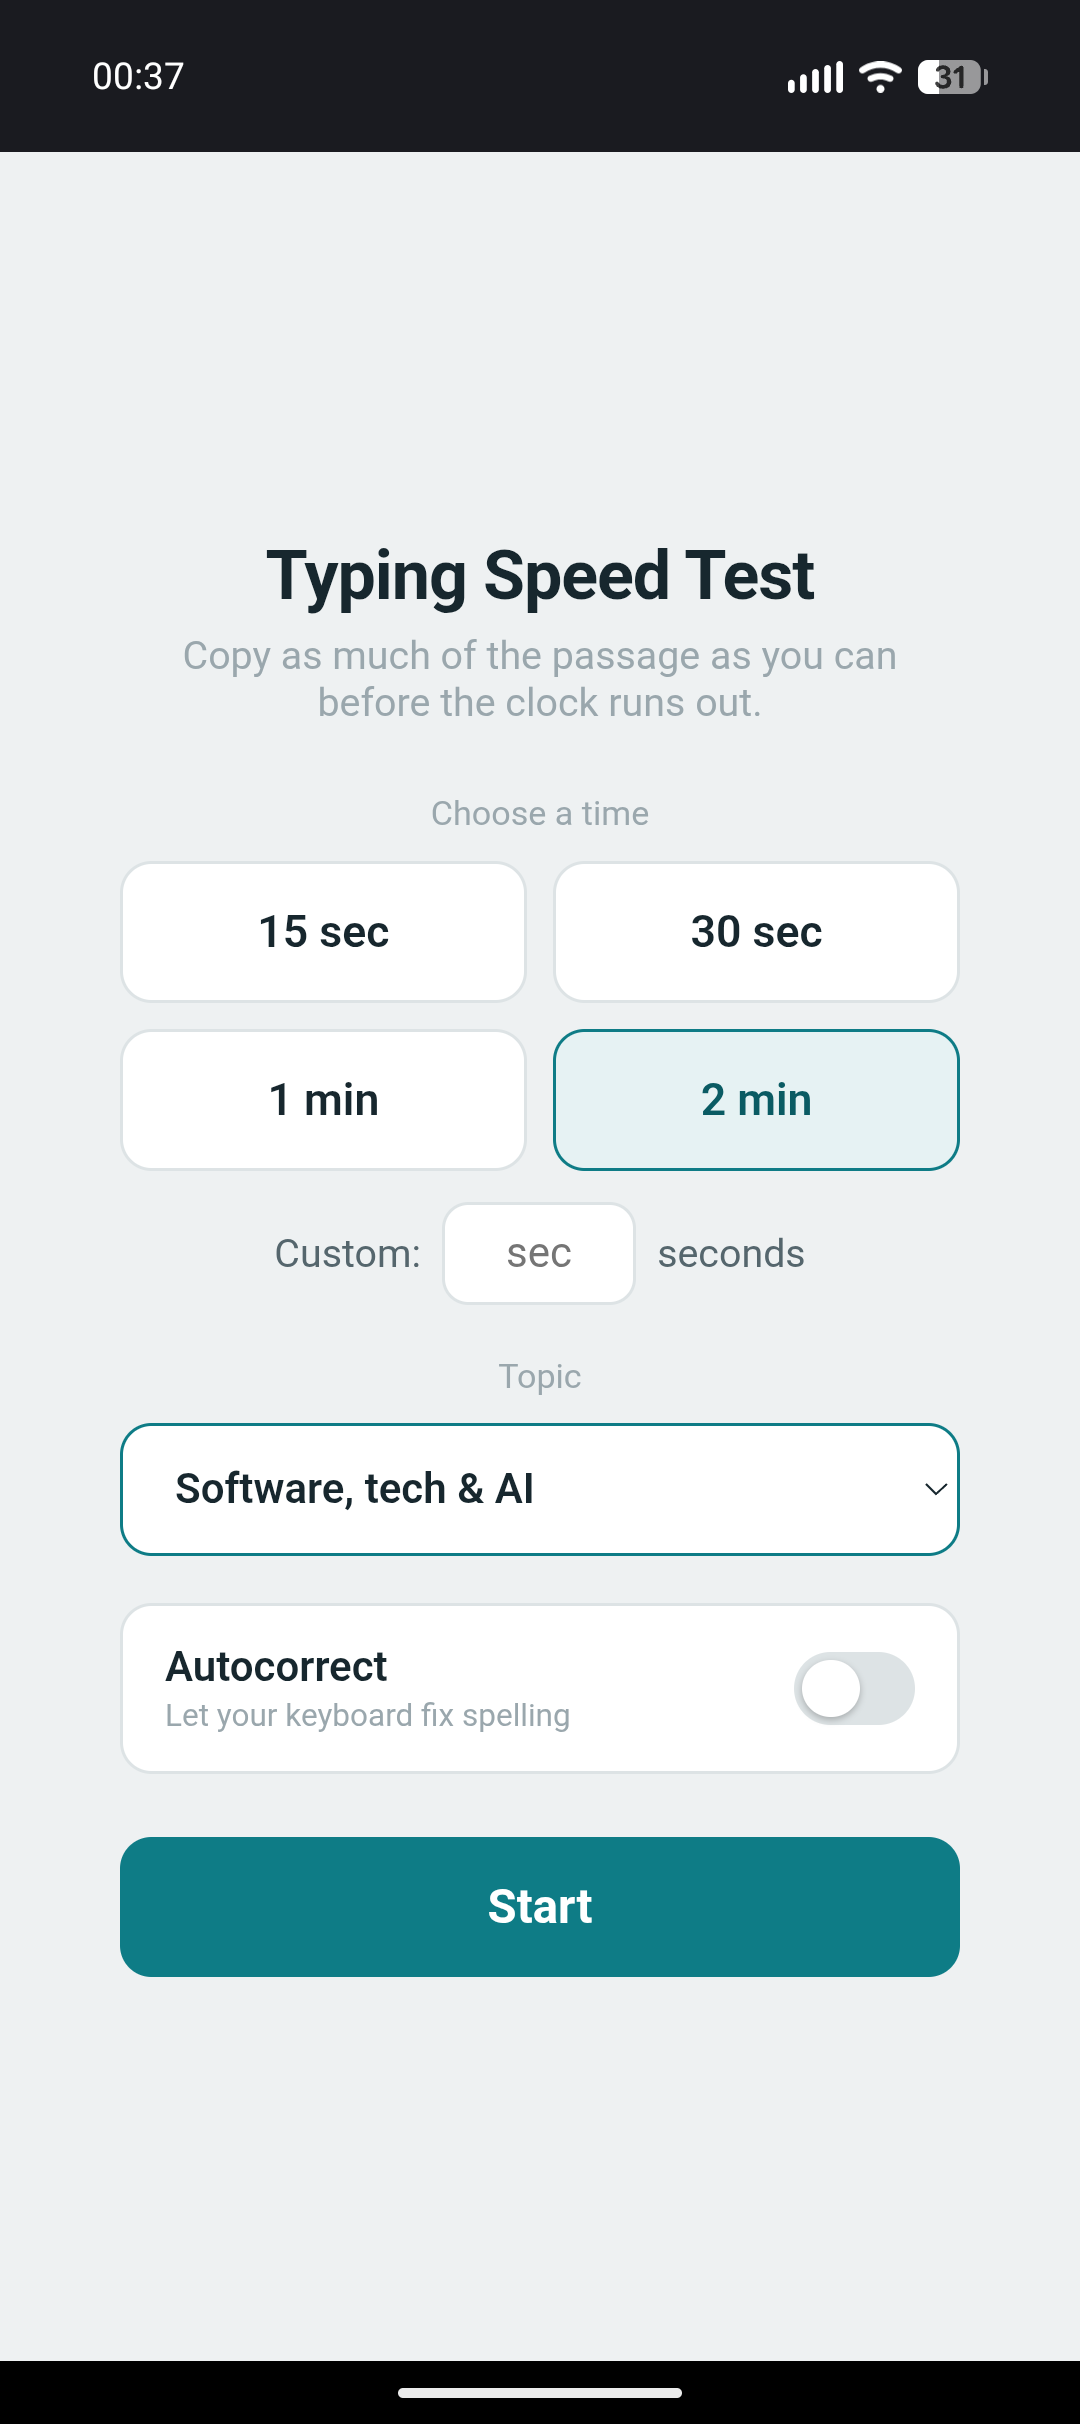
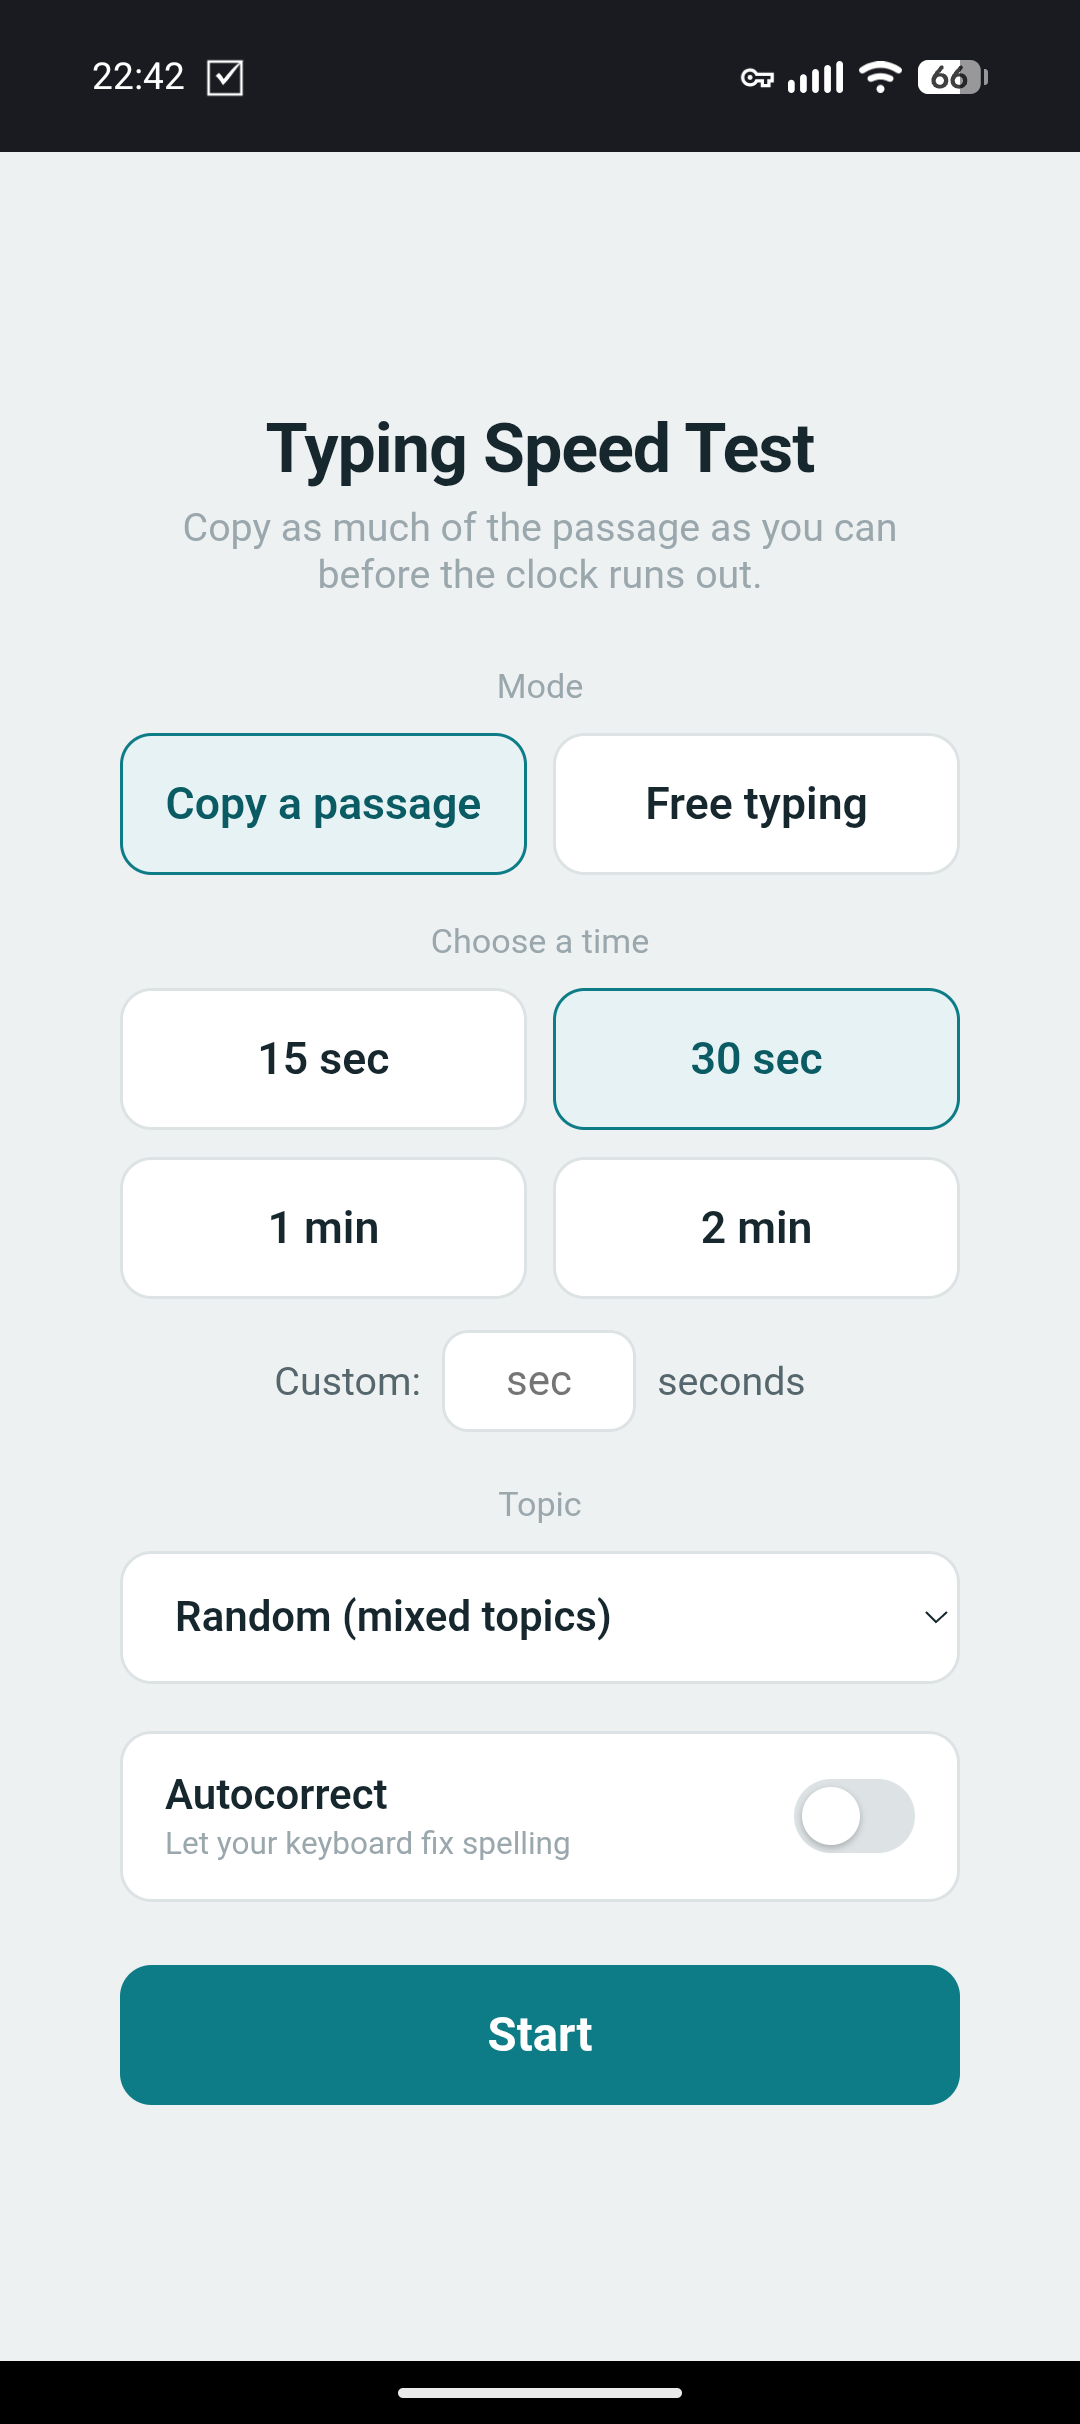
docs: refresh screenshots (with mode selector) and note free typing in README
Replace the setup/typing/results screenshots with newer captures -- the setup
shot now shows the Copy a passage / Free typing mode selector -- and mention
mode selection in the screenshot alt text and caption.

Claude-Session: https://claude.ai/code/session_01BXYBQtRh7YTX3yXHfwHnhG

diff --git a/README.md b/README.md
@@ -13,7 +13,7 @@ topics**.
 ## Screenshots
 
 <p align="center">
-  <img src="docs/screenshots/setup.png" alt="Setup screen: choose a duration and topic, toggle autocorrect, then Start" width="30%">
+  <img src="docs/screenshots/setup.png" alt="Setup screen: choose a mode (copy a passage or free typing), a duration and topic, toggle autocorrect, then Start" width="30%">
   &nbsp;&nbsp;
   <img src="docs/screenshots/typing.png" alt="A test in progress: countdown, live WPM and accuracy, with typed text coloured green as you go" width="30%">
   &nbsp;&nbsp;
@@ -22,11 +22,12 @@ topics**.
 
 <p align="center"><em>Setup &middot; a test in progress &middot; results</em></p>
 
-From the **setup** screen you pick a time limit and a topic (and optionally let
-your keyboard autocorrect). During a **test**, the clock counts down while your
-live WPM and accuracy update and each character turns green as you type it
-correctly. When time runs out -- or you finish the passage -- the **results**
-screen shows your WPM alongside errors, accuracy, and total characters typed.
+From the **setup** screen you pick a mode (copy a passage or free typing), a time
+limit and a topic (and optionally let your keyboard autocorrect). During a
+**test**, the clock counts down while your live WPM and accuracy update and each
+character turns green as you type it correctly. When time runs out -- or you
+finish the passage -- the **results** screen shows your WPM alongside errors,
+accuracy, and total characters typed.
 
 ## Quick start
 
